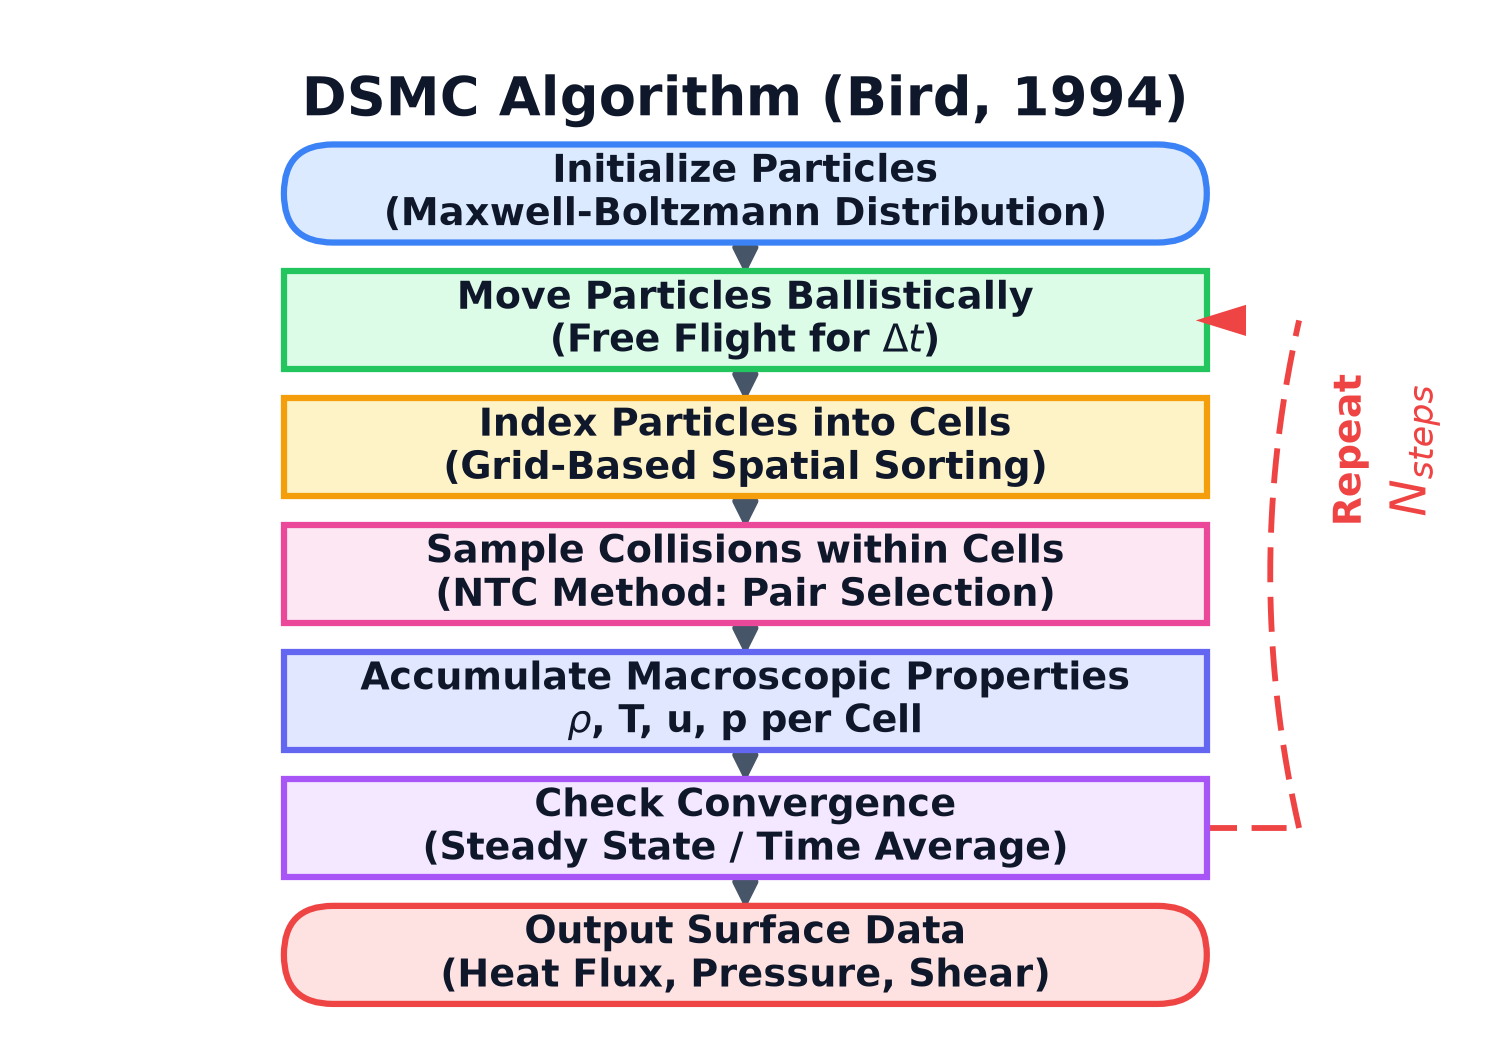
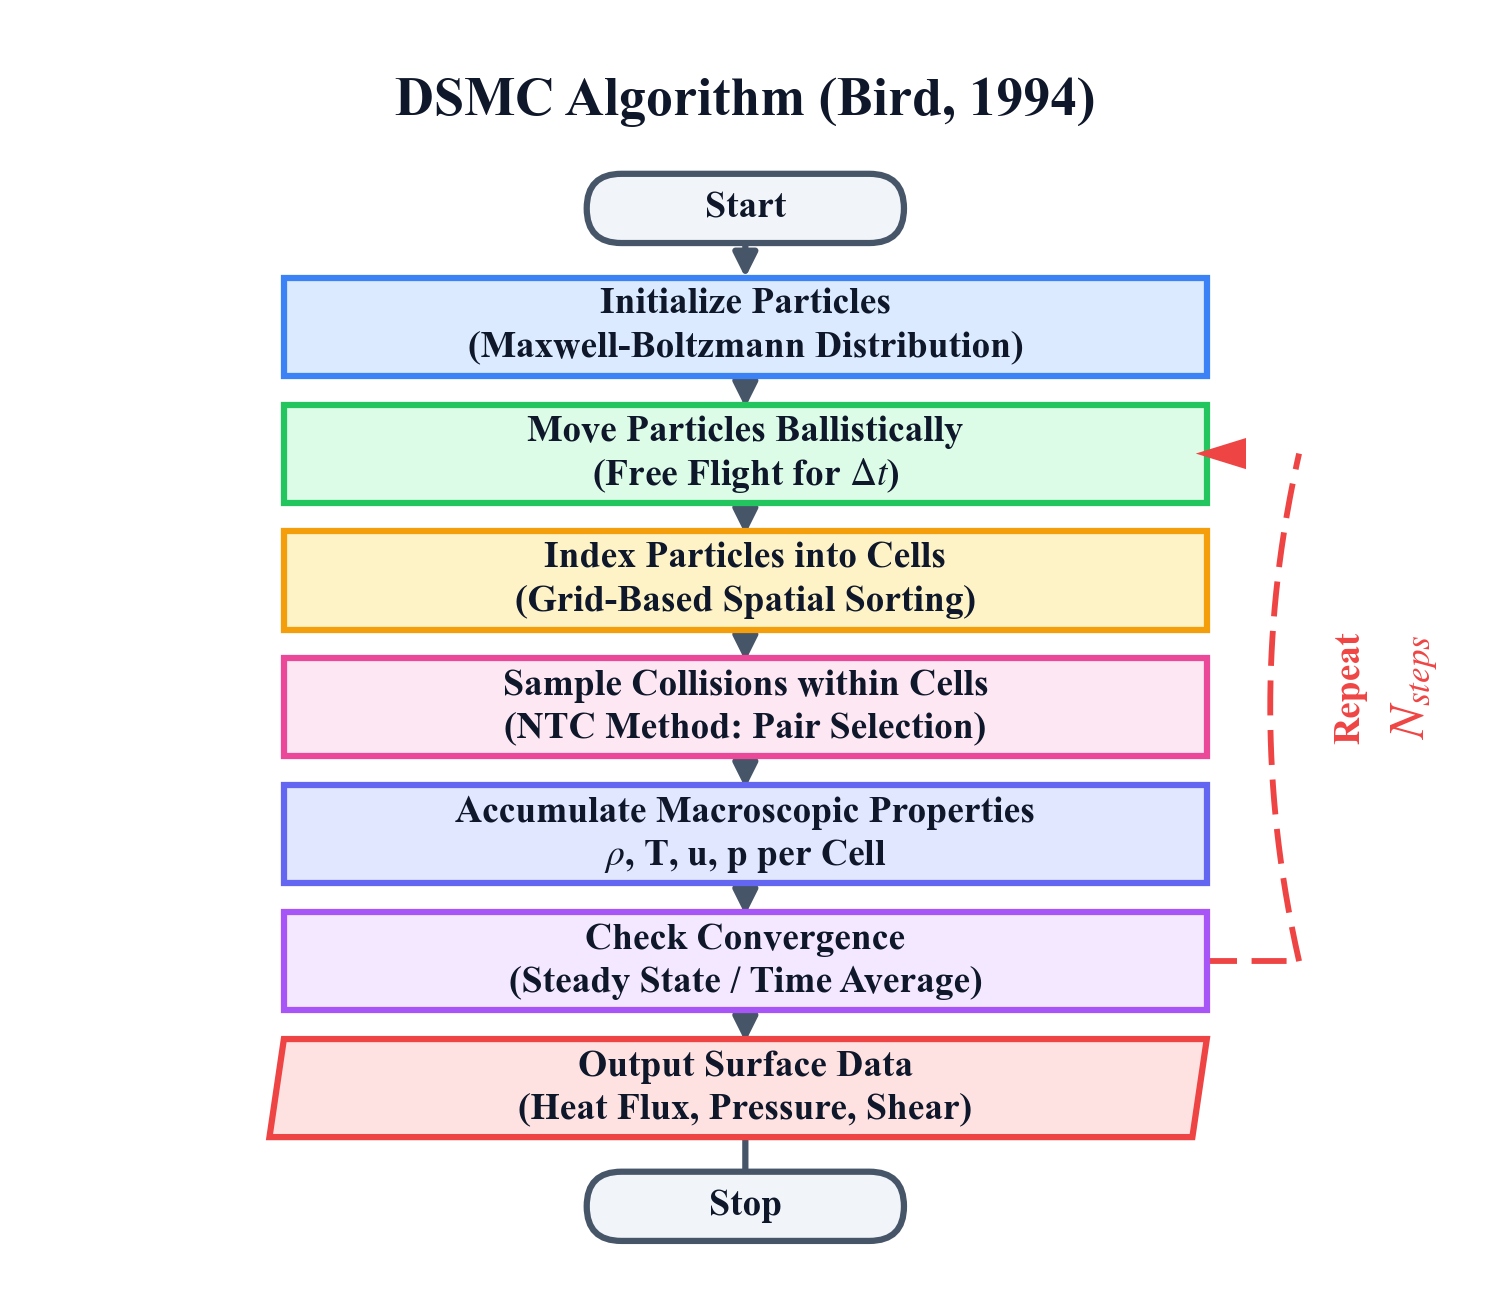
feat(thesis): ISO 5807 symbology for DSMC flowchart (Start/Stop terminators, io-shape output step, Times font)

diff --git a/Lost+Found/ProgressReport/CurrentThesisFinalReport/figures/make_dsmc_flowchart.py b/Lost+Found/ProgressReport/CurrentThesisFinalReport/figures/make_dsmc_flowchart.py
@@ -28,10 +28,19 @@ AXIOMS
        point size across fit iterations, and only geometry scales.
     3. Mathtext subscripts print at roughly 0.7 of the parent point size,
        so a parent of 12 pt is needed for an 8.4 pt subscript.
+    4. ISO 5807 flowchart symbols carry meaning: the rectangle is a
+       process step, the parallelogram is input/output, and the stadium
+       is a terminator. Drawing the first process step as a terminator
+       misstates its role, so Start and Stop are drawn as their own
+       stadium nodes and the seven steps use process/data symbols only.
 
 THEORIES
     1. A seven step column plus one loop arrow carries the whole algorithm
-       at this resolution, so no extra decoration is required.
+       at this resolution, so no extra decoration is required. The Start
+       and Stop terminators bracket the column without disturbing that
+       layout: their heights are added to the canvas, not taken from the
+       inter-box gaps, so the loop anchors on boxes 1 and 5 keep the exact
+       geometry the clearance measurement certifies.
     2. matplotlib's Arc3 connection style places its control point at
        (mid_x + rad*dy, mid_y - rad*dx). For a vertical chord (dx = 0) a
        negative rad therefore bows the curve toward smaller x, and the
@@ -39,8 +48,9 @@ THEORIES
        this numerically instead of trusting the sign convention.
 
 APPLICATIONS
-    1. Draw the seven boxes, six down arrows, the green step label, the
-       red dashed repeat loop, and the title.
+    1. Draw the Start and Stop terminators, the seven steps (six process
+       rectangles, one input/output parallelogram), six down arrows, the
+       green step label, the red dashed repeat loop, and the title.
     2. Fit the saved width to 0.9 of the text width, then assert the
        legibility floor and the dash-free rule.
 
@@ -73,6 +83,7 @@ sys.path.insert(0, str(Path(__file__).resolve().parent))
 # inside-canvas check live in one sibling module so that no two
 # generators can disagree about what a printed figure looks like.
 import print_fit as pf
+import fig_shapes as fsh
 from measure_loop_gap import (
     MAX_TOUCH_ROWS,
     MIN_SEP_GAP_PX,
@@ -152,7 +163,21 @@ N_BOX = 7
 # literals and BOX_H changed underneath them. The lines are placed
 # symmetrically at plus and minus half of this value about the box centre.
 LABEL_PITCH = 0.15
-H = TOP + TITLE_H + N_BOX * BOX_H + (N_BOX - 1) * GAP + BOT
+# Start and Stop terminators (stadium symbols) sit between the title and
+# the first step, and below the last step. Their slots are part of H, so
+# all seven inter-box relationships, the loop anchors on boxes 1 and 5 and
+# the six down arrows keep exactly the geometry the clearance measurement
+# certifies; only the canvas grows to carry the terminators.
+TERM_W = 1.10
+TERM_H = 0.24
+# Vertical run of the arrow from Start into box 0 and from box 6 into Stop.
+TERM_GAP = 0.12
+# Clearance between the title region and the Start oval.
+TITLE_GAP = 0.10
+START_SLOT = TITLE_GAP + TERM_H + TERM_GAP
+STOP_SLOT = TERM_GAP + TERM_H
+H = (TOP + TITLE_H + START_SLOT + N_BOX * BOX_H + (N_BOX - 1) * GAP
+     + STOP_SLOT + BOT)
 BOX_X0 = (W - BOX_W) / 2.0
 BOX_X1 = BOX_X0 + BOX_W
 CX = W / 2.0
@@ -187,6 +212,12 @@ PALETTE = [
 ]
 RED = "#EF4444"
 SLATE = "#475569"
+# Terminators use the slate greys (Tailwind slate), deliberately outside
+# the six palette border colours and outside the red shared by the loop
+# and box 6, so the border detection and the loop mask in
+# measure_loop_gap never see them.
+TERM_EDGE = SLATE
+TERM_FILL = "#F1F5F9"
 
 TITLE_FS = 13
 BOX_FS = 9
@@ -243,6 +274,18 @@ ENTRY_X = BOX_X1
 # to tell a real connection from a bow running along the border.
 CONNECTOR_OVERLAP = 0.015
 
+# Shared style for every straight down arrow (Start to box 0, the six
+# between-box arrows, and box 6 to Stop) so one literal cannot drift from
+# another between call sites.
+ARROW_STYLE = {
+    "arrowstyle": "-|>",
+    "color": SLATE,
+    "linewidth": 1.5,
+    "mutation_scale": 12,
+    "shrinkA": 0.0,
+    "shrinkB": 0.0,
+}
+
 BANNED = (
     chr(45) + chr(45),
     chr(0x2013),
@@ -258,7 +301,7 @@ def box_top(i: int) -> float:
     Returns
         y coordinate of the top edge.
     """
-    return H - TOP - TITLE_H - i * (BOX_H + GAP)
+    return H - TOP - TITLE_H - START_SLOT - i * (BOX_H + GAP)
 
 
 def box_center(i: int) -> float:
@@ -332,8 +375,13 @@ def draw() -> None:
         RuntimeError: propagates any check failure from check_text or
             save.
     """
-    plt.rcParams["font.family"] = "sans-serif"
-    plt.rcParams["font.sans-serif"] = ["DejaVu Sans"]
+    # Times matches the thesis body text and every other thesis figure;
+    # the BOX_H clearance comment below was measured with DejaVu Sans, and
+    # Times is narrower at the same point size, so that clearance only
+    # grows under this font.
+    plt.rcParams["font.family"] = "serif"
+    plt.rcParams["font.serif"] = ["Times New Roman", "Times", "DejaVu Serif"]
+    plt.rcParams["mathtext.fontset"] = "stix"
 
     for i in range(N_BOX):
         check_text(f"box title {i}", BOX_TITLES[i])
@@ -341,6 +389,8 @@ def draw() -> None:
     check_text("title", TITLE_TEXT)
     check_text("loop label 1", LOOP_LABEL_1)
     check_text("loop label 2", LOOP_LABEL_2)
+    check_text("start terminator", "Start")
+    check_text("stop terminator", "Stop")
 
     fig = plt.figure(figsize=(W, H))
     ax = fig.add_axes((0.0, 0.0, 1.0, 1.0))
@@ -359,29 +409,65 @@ def draw() -> None:
         color="#0F172A",
     )
 
+    # Start terminator: a slate stadium above box 0 with the arrow that
+    # enters the column. The oval top keeps TITLE_GAP below the title
+    # region; the oval bottom is TERM_GAP above box 0, the same run every
+    # between-box arrow uses.
+    start_top = box_top(0) + TERM_GAP + TERM_H
+    start_bottom = start_top - TERM_H
+    ax.add_patch(
+        FancyBboxPatch(
+            (CX - TERM_W / 2.0, start_bottom),
+            TERM_W,
+            TERM_H,
+            boxstyle=f"round,pad=0,rounding_size={TERM_H / 2.0}",
+            facecolor=TERM_FILL,
+            edgecolor=TERM_EDGE,
+            linewidth=BOX_LW,
+            zorder=2,
+        )
+    )
+    ax.text(
+        CX,
+        start_bottom + TERM_H / 2.0,
+        "Start",
+        ha="center",
+        va="center",
+        fontsize=BOX_FS,
+        fontweight="bold",
+        color="#0F172A",
+        zorder=3,
+    )
+    ax.annotate(
+        "",
+        xy=(CX, box_top(0)),
+        xytext=(CX, start_bottom),
+        arrowprops=dict(ARROW_STYLE),
+        zorder=1,
+    )
+
     for i in range(N_BOX):
         border, fill = PALETTE[i]
         top = box_top(i)
-        # Flowchart convention: the START (box 0) and END (box 6) nodes are
-        # oval terminators, the process steps stay rectangles. A FancyBboxPatch
-        # with rounding_size = height/2 is a stadium: at mid height (where
-        # every arrow attaches) it spans exactly BOX_X0..BOX_X1, and the
-        # top/bottom arrow landings on the centre line sit on the flat
-        # segment, so no connector geometry changes. The loop anchors boxes
-        # 1 and 5 (both process rectangles), so measure_loop_gap and the
-        # analytic apex guard keep their inputs.
-        if i in (0, N_BOX - 1):
-            ax.add_patch(
-                FancyBboxPatch(
-                    (BOX_X0, top - BOX_H),
-                    BOX_W,
-                    BOX_H,
-                    boxstyle=f"round,pad=0,rounding_size={BOX_H / 2.0}",
-                    facecolor=fill,
-                    edgecolor=border,
-                    linewidth=1.5,
-                    zorder=2,
-                )
+        # ISO 5807 symbols: boxes 0 to 5 are process rectangles (box 0 no
+        # longer doubles as a terminator; the Start node owns that role),
+        # and box 6, Output Surface Data, is an input/output parallelogram
+        # from the shared helper. x0 = BOX_X0 - SLANT_IN puts the top edge
+        # flush with the box column so the rightmost red ink still lands
+        # on BOX_X1, inside the column that measure_loop_gap masks out of
+        # the loop, while the visual centre (and both arrow landings at
+        # CX) stay aligned with the rectangular steps.
+        if i == N_BOX - 1:
+            fsh.io_shape(
+                ax,
+                BOX_X0 - fsh.SLANT_IN,
+                top - BOX_H,
+                BOX_W,
+                BOX_H,
+                fill,
+                border,
+                linewidth=BOX_LW,
+                slant_in=fsh.SLANT_IN,
             )
         else:
             ax.add_patch(
@@ -391,7 +477,7 @@ def draw() -> None:
                     BOX_H,
                     facecolor=fill,
                     edgecolor=border,
-                    linewidth=1.5,
+                    linewidth=BOX_LW,
                     zorder=2,
                 )
             )
@@ -425,16 +511,45 @@ def draw() -> None:
             "",
             xy=(CX, y_to),
             xytext=(CX, y_from),
-            arrowprops={
-                "arrowstyle": "-|>",
-                "color": SLATE,
-                "linewidth": 1.5,
-                "mutation_scale": 12,
-                "shrinkA": 0.0,
-                "shrinkB": 0.0,
-            },
+            arrowprops=dict(ARROW_STYLE),
             zorder=1,
         )
+
+    # Stop terminator: mirror of the Start node below box 6. Its bottom
+    # edge lands exactly BOT above the canvas edge by the slot algebra in
+    # H and box_top, so no clearance check has a special case.
+    stop_top = box_top(N_BOX - 1) - BOX_H - TERM_GAP
+    stop_bottom = stop_top - TERM_H
+    ax.add_patch(
+        FancyBboxPatch(
+            (CX - TERM_W / 2.0, stop_bottom),
+            TERM_W,
+            TERM_H,
+            boxstyle=f"round,pad=0,rounding_size={TERM_H / 2.0}",
+            facecolor=TERM_FILL,
+            edgecolor=TERM_EDGE,
+            linewidth=BOX_LW,
+            zorder=2,
+        )
+    )
+    ax.text(
+        CX,
+        stop_bottom + TERM_H / 2.0,
+        "Stop",
+        ha="center",
+        va="center",
+        fontsize=BOX_FS,
+        fontweight="bold",
+        color="#0F172A",
+        zorder=3,
+    )
+    ax.annotate(
+        "",
+        xy=(CX, stop_bottom),
+        xytext=(CX, box_top(N_BOX - 1) - BOX_H),
+        arrowprops=dict(ARROW_STYLE),
+        zorder=1,
+    )
 
     # The green Delta t that used to sit beside box 2 was removed on purpose.
     # A rendered-page audit found it floating six points clear of the box with

diff --git a/Lost+Found/ProgressReport/CurrentThesisFinalReport/figures/fig_shapes.py b/Lost+Found/ProgressReport/CurrentThesisFinalReport/figures/fig_shapes.py
@@ -2,10 +2,12 @@
 """Shared flowchart shape helpers for the thesis figure generators.
 
 PURPOSE
-    Provide the ISO 5807 input/output parallelogram (io_box) once, so
-    make_methodology_figures.py and make_software_pipeline.py draw data
-    symbols from identical geometry instead of maintaining two copies that
-    can silently diverge.
+    Provide the ISO 5807 input/output parallelogram once, so the thesis
+    generators draw data symbols from identical geometry instead of
+    maintaining copies that can silently diverge. io_shape is the bare
+    polygon (for callers that draw their own text, e.g.
+    make_dsmc_flowchart.py) and io_box composes io_shape with a centered
+    label.
 
 PARAMETERS
     None at import time. Only geometry helpers are exported; each caller
@@ -13,11 +15,13 @@ PARAMETERS
 
 RETURNS
     Module namespace. Import errors propagate if matplotlib is missing.
+    io_shape additionally returns the Polygon it added, so callers that
+    need to measure the patch can.
 
 EXCEPTIONS
     ImportError if matplotlib is unavailable; ValueError never raised by
-    io_box (degenerate widths render empty shapes, callers size boxes via
-    their own verify step).
+    io_shape or io_box (degenerate widths render empty shapes, callers
+    size boxes via their own verify step).
 
 AXIOMS
     A1. Duplicate shape code across generator scripts diverges: the same
@@ -39,6 +43,8 @@ APPLICATIONS
         the result-extraction flow with io_box.
     A2. make_software_pipeline.py draws the three INPUT boxes and the
         OUTPUT box of the five-column pipeline with io_box.
+    A3. make_dsmc_flowchart.py draws the Output Surface Data step with
+        io_shape and keeps its own two-line bold label.
 
 CITATIONS
     ISO 5807, Information processing -- Documentation symbols and
@@ -51,11 +57,49 @@ from __future__ import annotations
 
 from matplotlib.patches import Polygon  # noqa: E402  pure geometry, no backend
 
+# Right-leaning offset of the data symbol, in inches. Exported so callers
+# that position the shape relative to their own column (make_dsmc_flowchart
+# aligns the top edge with the box column) never restate the number that
+# io_shape will apply.
+SLANT_IN = 0.05
+
+
+def io_shape(ax: object, x0: float, y0: float, w: float, h: float,
+             fill: str, edge: str, linewidth: float = 1.2,
+             slant_in: float = SLANT_IN) -> Polygon:
+    """Add the ISO 5807 input/output parallelogram and return the patch.
+
+    The top edge is shifted right by slant_in so the quadrilateral reads
+    as input/output by outline alone. The axes in every caller are in
+    inches on both axes, so slant_in is used directly as a data offset
+    (no unit conversion).
+
+    :param ax: the axes to draw on.
+    :param x0: bottom-left corner x in inches (before the slant).
+    :param y0: bottom edge y in inches.
+    :param w: horizontal width of the bottom edge in inches.
+    :param h: height in inches.
+    :param fill: face colour.
+    :param edge: stroke colour.
+    :param linewidth: stroke width in points.
+    :param slant_in: horizontal offset of the top edge in inches.
+    :returns: the Polygon patch that was added to ax.
+    :raises: none; degenerate widths render empty shapes.
+    """
+    s = slant_in
+    patch = Polygon(
+        [(x0, y0), (x0 + w, y0), (x0 + w + s, y0 + h), (x0 + s, y0 + h)],
+        closed=True, linewidth=linewidth, edgecolor=edge, facecolor=fill,
+        zorder=2,
+    )
+    ax.add_patch(patch)
+    return patch
+
 
 def io_box(ax: object, x0: float, y0: float, w: float, h: float,
            text: str, fill: str, edge: str, text_color: str = "#212121",
            fs: float = 9.5, linespacing: float = 1.3,
-           slant_in: float = 0.05) -> None:
+           slant_in: float = SLANT_IN) -> None:
     """Draw a right-leaning input/output parallelogram with centered text.
 
     ISO 5807 data symbol: the top edge is shifted right by slant_in so the
@@ -78,10 +122,6 @@ def io_box(ax: object, x0: float, y0: float, w: float, h: float,
     :returns: None.
     """
     s = slant_in
-    ax.add_patch(Polygon(
-        [(x0, y0), (x0 + w, y0), (x0 + w + s, y0 + h), (x0 + s, y0 + h)],
-        closed=True, linewidth=1.2, edgecolor=edge, facecolor=fill,
-        zorder=2,
-    ))
+    io_shape(ax, x0, y0, w, h, fill, edge, slant_in=s)
     ax.text(x0 + w / 2 + s / 2, y0 + h / 2, text, ha="center", va="center",
             fontsize=fs, color=text_color, zorder=3, linespacing=linespacing)

diff --git a/Lost+Found/ProgressReport/CurrentThesisFinalReport/chapter_02_literature_review.tex b/Lost+Found/ProgressReport/CurrentThesisFinalReport/chapter_02_literature_review.tex
@@ -913,7 +913,7 @@ The standard implementation follows Bird's No-Time-Counter (NTC) algorithm:
 
 \begin{figure}[htbp]
     \centering
-    \BeginAccSupp{method=escape,ActualText={Flowchart of the Direct Simulation Monte Carlo algorithm, showing the per-timestep cycle of particle advection, cell collision and macroscopic property sampling.}}%
+    \BeginAccSupp{method=escape,ActualText={Flowchart of the Direct Simulation Monte Carlo algorithm, bracketed by Start and Stop terminators, showing the per-timestep cycle of particle advection, cell collision and macroscopic property sampling, with the convergence check looping back until steady state.}}%
 \includegraphics[width=0.9\textwidth]{figures/dsmc_algorithm_flowchart.png}%
 \EndAccSupp{}%
     \caption[Flowchart of Bird's No-Time-Counter (NTC) DSMC algorithm. The two-phase alternation between particle movement (streamer phase) and collision pairing (collision phase) is shown.]{Flowchart of Bird's No-Time-Counter (NTC) DSMC algorithm. The two-phase alternation between particle movement (streamer phase) and collision pairing (collision phase) is shown, with macroscopic property sampling accumulating at each time step.}
